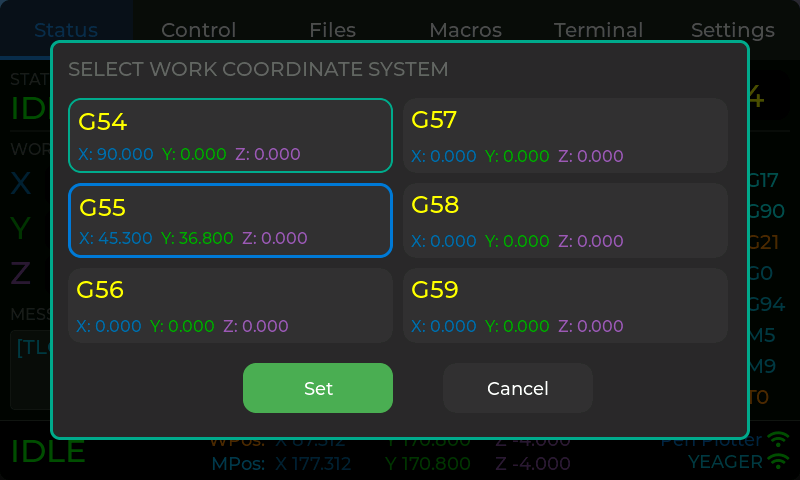
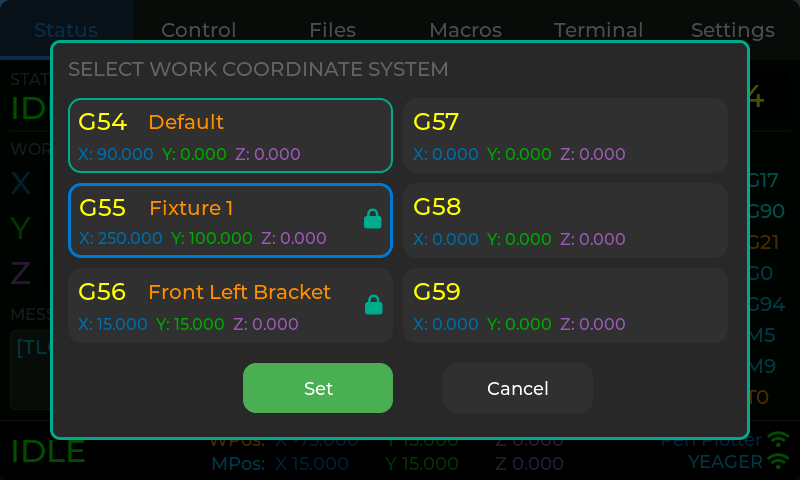
Prepare v1.0.3 release documentation

diff --git a/web/index.html b/web/index.html
@@ -805,7 +805,7 @@
             Web Installer
         </p>
         <div class="version-badge">
-            <span>Version 1.0.2</span>
+            <span>Version 1.0.3</span>
         </div>
         <p style="text-align: center; font-size: 1.2em; color: #c9d1d9; margin-bottom: 30px;">
             ESP32 Touchscreen CNC Controller for FluidNC
@@ -813,25 +813,18 @@
 
         <!-- Changelog -->
         <div class="changelog">
-            <h3>🎉 Version 1.0.2 - Display Rotation & Status Tab Enhancements</h3>
+            <h3>🎉 Version 1.0.3</h3>
             <div class="changelog-content">
                 <div class="changelog-version">
-                    <div class="changelog-date">January 24, 2026</div>
+                    <div class="changelog-date">February 10, 2026</div>
                     <ul class="changelog-items">
-                        <li><strong>Status Tab Updates:</strong>
-                            <ul>
-                                <li><strong>Pause/Resume and Stop Buttons</strong> - Pause/Resume/Stop from status tab</li>
-                                <li><strong>Position Update on Status Tab</strong> - Click positions on status tab to update</li>
-                                <li><strong>WCS Update on Status Tab</strong> - Click work position values to update Work Coordinate System</li>
-                            </ul>
-                        </li>
-                        <li><strong>Settings Updates:</strong>
-                            <ul>
-                                <li><strong>Display Rotation Support</strong> - Can now rotate display 180 degrees via Settings → General</li>
-                            </ul>
-                        </li>
-                        <li><strong>Web Installer Version Selection</strong> - Dropdown to select from multiple firmware versions including preview builds</li>
-                        <li><strong>Bugfix:</strong> Fixed handling of filenames containing spaces in upload operations</li>
+                        <li><strong>Display Flicker Fix:</strong> Eliminated screen flicker by migrating to ESP-IDF 5.3 and optimizing display timing</li>
+                        <li><strong>Basic Hardware Touch Fix:</strong> Improved touch sensitivity and reliability on Basic hardware variant</li>
+                        <li><strong>WCS Enhancements:</strong> Added support for WCS labels and locking specific WCSs requiring confirmation before zeroing or probing</li>
+                        <li><strong>Advance Hardware v1.2 Support (⚠ Untested):</strong> Added support for Elecrow CrowPanel 7" Advance v1.2 displays</li>
+                        <li><strong>mDNS Hostname Resolution:</strong> Connect to FluidNC by hostname (e.g., fluidnc.local) instead of IP address</li>
+                        <li><strong>Upload Directory Auto-Creation:</strong> Automatically creates upload directory if it doesn't exist when uploading files</li>
+                        <li><strong>Open Upload Folder Button:</strong> Quick access button to open the uploaded files folder on FluidNC</li>
                     </ul>
                 </div>
             </div>
@@ -840,6 +833,26 @@
             <div class="changelog-collapsed" id="changelog-prior" style="margin-top: 15px; padding-top: 15px; border-top: 1px solid rgba(0, 188, 212, 0.2);">
                 <h3 onclick="toggleChangelog('changelog-prior')">📜 Prior Releases</h3>
                 <div class="changelog-content">
+                    <div class="changelog-version">
+                        <h4>Version 1.0.2 - Display Rotation & Status Tab Enhancements</h4>
+                        <div class="changelog-date">January 24, 2026</div>
+                        <ul class="changelog-items">
+                            <li><strong>Status Tab Updates:</strong>
+                                <ul>
+                                    <li><strong>Pause/Resume and Stop Buttons</strong> - Pause/Resume/Stop from status tab</li>
+                                    <li><strong>Position Update on Status Tab</strong> - Click positions on status tab to update</li>
+                                    <li><strong>WCS Update on Status Tab</strong> - Click work position values to update Work Coordinate System</li>
+                                </ul>
+                            </li>
+                            <li><strong>Settings Updates:</strong>
+                                <ul>
+                                    <li><strong>Display Rotation Support</strong> - Can now rotate display 180 degrees via Settings → General</li>
+                                </ul>
+                            </li>
+                            <li><strong>Web Installer Version Selection</strong> - Dropdown to select from multiple firmware versions including preview builds</li>
+                            <li><strong>Bugfix:</strong> Fixed handling of filenames containing spaces in upload operations</li>
+                        </ul>
+                    </div>
                     <div class="changelog-version">
                         <h4>Version 1.0.1 - Bugfixes & Documentation</h4>
                         <div class="changelog-date">December 4, 2025</div>
@@ -898,6 +911,7 @@
                         <div><span class="spec-highlight">16MB</span> Flash Memory</div>
                         <div><span class="spec-highlight">8MB</span> PSRAM</div>
                         <div>ESP32-S3-WROOM-1-N16R8</div>
+                        <div style="color: #ffa726; font-weight: 600;">⚠ ESP32-S3 ONLY (P4 not supported)</div>
                         <div>Display: 800×480 <span class="spec-highlight">IPS LCD</span></div>
                         <div id="advance-version-selector" style="margin-top: 12px; padding-top: 12px; border-top: 1px solid rgba(255,255,255,0.1); display: none;">
                             <label for="advance-version-select" style="display: block; margin-bottom: 6px; color: #00bcd4; font-weight: 600; font-size: 0.9em;">Hardware Revision</label>
@@ -923,6 +937,7 @@
                 <li><strong>Browser:</strong> Chrome, Edge, or Opera (required for Web Serial API)</li>
                 <li><strong>Cable:</strong> USB-C cable with data support (not charge-only)</li>
                 <li><strong>Permissions:</strong> Allow serial port access when prompted</li>
+                <li><strong>Hardware:</strong> ESP32-S3 boards only - ESP32-P4 versions are NOT supported</li>
                 <li><strong>Important:</strong> Installing wrong hardware firmware will result in non-functional display</li>
             </ul>
         </div>

diff --git a/docs/development.md b/docs/development.md
@@ -34,9 +34,11 @@
     - I2C backlight control
     - Internal battery connector with JST PH 2.0mm 2-pin connector
     - Optional acrylic case includes space for battery (e.g., 1200mAh lithium polymer battery)
-    - ⚠ **Advance Version Compatibility:** Currently only supports hardware Version 1.3
-    - **Version 1.3 Configuration:** DIP switches S0 and S1 must both be set to position 1
-    - If you have an earlier version (1.0, 1.1, 1.2), please [create a GitHub issue](https://github.com/jeyeager65/FluidTouch/issues) for assistance
+    - ⚠ **ESP32-S3 ONLY** - ESP32-P4 versions are NOT supported
+    - ⚠ **Advance Version Compatibility:** Supports hardware Versions 1.2 and 1.3
+    - **DIP Switch Configuration:** Both versions require DIP switches S0 and S1 set to position 1
+    - **Version 1.3:** Fully tested (use `elecrow-crowpanel-7-advance-v13` build environment)
+    - **Version 1.2:** ⚠ Untested (use `elecrow-crowpanel-7-advance-v12` build environment)
 - Serial terminal (PlatformIO includes one)
 - Chrome/Edge browser (for ESP Web Tools testing)
 
@@ -69,21 +71,28 @@ code .
 
 **Build Environments:**
 - `elecrow-crowpanel-7-basic` - Basic hardware (4MB flash, PWM backlight)
-- `elecrow-crowpanel-7-advance` - Advance hardware (16MB flash, I2C backlight)
+- `elecrow-crowpanel-7-advance-v12` - Advance v1.2 hardware (16MB flash, I2C backlight)
+- `elecrow-crowpanel-7-advance-v13` - Advance v1.3 hardware (16MB flash, I2C backlight)
 
 **Windows PowerShell:**
 ```powershell
 # Build only (Basic)
 & "$env:USERPROFILE\.platformio\penv\Scripts\platformio.exe" run -e elecrow-crowpanel-7-basic
 
-# Build only (Advance)
-& "$env:USERPROFILE\.platformio\penv\Scripts\platformio.exe" run -e elecrow-crowpanel-7-advance
+# Build only (Advance v1.2)
+& "$env:USERPROFILE\.platformio\penv\Scripts\platformio.exe" run -e elecrow-crowpanel-7-advance-v12
+
+# Build only (Advance v1.3)
+& "$env:USERPROFILE\.platformio\penv\Scripts\platformio.exe" run -e elecrow-crowpanel-7-advance-v13
 
 # Build and upload (Basic)
 & "$env:USERPROFILE\.platformio\penv\Scripts\platformio.exe" run --target upload -e elecrow-crowpanel-7-basic
 
-# Build and upload (Advance)
-& "$env:USERPROFILE\.platformio\penv\Scripts\platformio.exe" run --target upload -e elecrow-crowpanel-7-advance
+# Build and upload (Advance v1.2)
+& "$env:USERPROFILE\.platformio\penv\Scripts\platformio.exe" run --target upload -e elecrow-crowpanel-7-advance-v12
+
+# Build and upload (Advance v1.3)
+& "$env:USERPROFILE\.platformio\penv\Scripts\platformio.exe" run --target upload -e elecrow-crowpanel-7-advance-v13
 
 # Clean build
 & "$env:USERPROFILE\.platformio\penv\Scripts\platformio.exe" run -t clean
@@ -97,14 +106,20 @@ code .
 # Build only (Basic)
 platformio run -e elecrow-crowpanel-7-basic
 
-# Build only (Advance)
-platformio run -e elecrow-crowpanel-7-advance
+# Build only (Advance v1.2)
+platformio run -e elecrow-crowpanel-7-advance-v12
+
+# Build only (Advance v1.3)
+platformio run -e elecrow-crowpanel-7-advance-v13
 
 # Build and upload (Basic)
 platformio run --target upload -e elecrow-crowpanel-7-basic
 
-# Build and upload (Advance)
-platformio run --target upload -e elecrow-crowpanel-7-advance
+# Build and upload (Advance v1.2)
+platformio run --target upload -e elecrow-crowpanel-7-advance-v12
+
+# Build and upload (Advance v1.3)
+platformio run --target upload -e elecrow-crowpanel-7-advance-v13
 
 # Clean build
 platformio run -t clean
@@ -117,13 +132,15 @@ platformio device monitor -b 115200
 
 **Flash Usage:** 
 - Basic: ~57% (1.86MB of 3.25MB)
-- Advance: ~28% (1.86MB of 6.5MB)
+- Advance v1.2: ~28% (1.86MB of 6.5MB)
+- Advance v1.3: ~28% (1.86MB of 6.5MB)
 
 **RAM Usage:** ~1.0% (82KB of 8.5MB)
 
 **Binary Locations:**
 - Basic Firmware: `.pio/build/elecrow-crowpanel-7-basic/firmware.bin`
-- Advance Firmware: `.pio/build/elecrow-crowpanel-7-advance/firmware.bin`
+- Advance v1.2 Firmware: `.pio/build/elecrow-crowpanel-7-advance-v12/firmware.bin`
+- Advance v1.3 Firmware: `.pio/build/elecrow-crowpanel-7-advance-v13/firmware.bin`
 
 ---
 

diff --git a/CHANGELOG.md b/CHANGELOG.md
@@ -5,6 +5,24 @@ All notable changes to FluidTouch will be documented in this file.
 The format is based on [Keep a Changelog](https://keepachangelog.com/en/1.0.0/),
 and this project adheres to [Semantic Versioning](https://semver.org/spec/v2.0.0.html).
 
+## [1.0.3] - 2026-02-10
+
+### Added
+
+- **Advance Hardware v1.2 Support** - Added support for Elecrow CrowPanel 7" Advance v1.2 displays (⚠ untested) (#11)
+  - Note: v1.2 requires same DIP switch configuration as v1.3 (S0 and S1 both set to position 1)
+- **mDNS Hostname Resolution** - Connect to FluidNC by hostname (e.g., `fluidnc.local`) instead of IP address (#26)
+- **Upload Directory Auto-Creation** - Automatically creates upload directory if it doesn't exist when uploading files from Display SD
+- **Open Upload Folder Button** - Quick access button to open the uploaded files folder on FluidNC
+- **WCS Display Enhancements** - Improved Work Coordinate System labeling and lock status indicators
+
+### Fixed
+
+- **Display Flicker** - Eliminated screen flicker by migrating to ESP-IDF 5.3 and optimizing display timing parameters
+- **Basic Hardware Touch Response** - Improved touch sensitivity and reliability on Basic hardware variant (#21, #23)
+- **Probe After WCS Confirmation** - Fixed probe operations failing after confirming Work Coordinate System updates
+- **Web Installer Caching** - Prevented browser caching of versions.json to ensure latest version list is always displayed
+
 ## [1.0.2] - 2026-01-24
 
 ### Changed
@@ -65,6 +83,7 @@ FluidTouch 1.0.0 is the first stable release of the ESP32-S3 touchscreen CNC con
 - Configuration guide for WiFi, machines, and settings
 - Development guide for building from source
 
+[1.0.3]: https://github.com/jeyeager65/FluidTouch/releases/tag/v1.0.3
 [1.0.2]: https://github.com/jeyeager65/FluidTouch/releases/tag/v1.0.2
 [1.0.1]: https://github.com/jeyeager65/FluidTouch/releases/tag/v1.0.1
 [1.0.0]: https://github.com/jeyeager65/FluidTouch/releases/tag/v1.0.0

diff --git a/README.md b/README.md
@@ -66,8 +66,11 @@ Refer to the **[Development Guide](./docs/development.md)** for additional instr
 - I2C Backlight Control (STC8H1K28)
 - Internal battery connector (JST PH 2.0mm 2-pin)
 - Optional acrylic case with battery compartment (supports ~1200mAh LiPo batteries)
-- ⚠ **Hardware Version 1.3 Only** 
-  - DIP switches S0 and S1 must both be set to position 1
+- ⚠ **ESP32-S3 ONLY** - ESP32-P4 versions are NOT supported
+- **Hardware Versions 1.2 and 1.3 Supported**
+  - **Both versions:** DIP switches S0 and S1 must both be set to position 1
+  - **Version 1.2:** ⚠ Support is untested - use v1.2 firmware from web installer
+  - **Version 1.3:** Fully tested and recommended
   - **Case Note:** When using acrylic case, install 6mm M3 screws in bottom mounting inserts to prevent accidental reset button presses
 - [Buy on Elecrow ↗](https://www.awin1.com/cread.php?awinmid=82721&awinaffid=2663106&ued=https%3A%2F%2Fwww.elecrow.com%2Fcrowpanel-advance-7-0-hmi-esp32-ai-display-800x480-artificial-intelligent-ips-touch-screen-support-meshtastic-and-arduino-lvgl-micropython.html) *(affiliate link)*
 
@@ -94,7 +97,9 @@ Detailed documentation is available in the [`docs/`](./docs/) folder:
    - WiFi SSID and Password (machine-specific)
    - FluidNC IP address or hostname (e.g. 192.168.0.1 or fluidnc.local)
    - WebSocket port (default: 81)
-     - Port 82 is used by WebUI v3 and can also be used.  FluidNC only allows one connection at a time but it will switch cleanly back and forth.
+     - Port 80 is used by FluidNC v4.0+
+     - Port 81 is used by WebUI v2 (FluidNC v3.x)
+     - Port 82 is used by WebUI v3 (FluidNC v3.x) - only allows one connection at a time but will switch cleanly between connections
 4. Click the "Save" button.
 5. Click the "Done" button.
 6. Click on the created machine.

diff --git a/.github/copilot-instructions.md b/.github/copilot-instructions.md
@@ -142,7 +142,10 @@ The codebase follows a **strict modular pattern** with clear separation:
    ```
 
 2. **FluidNC Communication**:
-   - WebSocket client connects to FluidNC using machine configuration (IP/hostname + port, default 81)
+   - WebSocket client connects to FluidNC using machine configuration (IP/hostname + port)
+     - Port 80: FluidNC v4.0+
+     - Port 81: FluidNC v3.x (WebUI v2, default)
+     - Port 82: FluidNC v3.x (WebUI v3)
    - Uses **automatic reporting** (`$Report/Interval=250\n`) - FluidNC pushes updates every 250ms, no polling needed
    - Parses three message types:
      - Status reports (binary frames): `<Idle|MPos:x,y,z|FS:feed,spindle|Ov:feed,rapid,spindle|WCO:x,y,z|SD:percent,filename>`
@@ -501,7 +504,7 @@ All other hardcoded values live in `include/config.h`:
 
 ## External Dependencies
 
-- **FluidNC**: CNC controller firmware (WebSocket connection on port 81/82, automatic reporting enabled)
+- **FluidNC**: CNC controller firmware (WebSocket connection on port 80 for v4.0+, port 81/82 for v3.x, automatic reporting enabled)
 - **LVGL 9.4.0+**: UI library via PlatformIO lib_deps
 - **LovyanGFX 1.2.7+**: Hardware display driver with RGB parallel support
 - **WebSockets 2.5.4+**: WebSocket client library for FluidNC communication

diff --git a/docs/ui-guide.md b/docs/ui-guide.md
@@ -23,6 +23,7 @@
   - [General](#general)
   - [Jog](#jog-settings)
   - [Probe](#probe-settings)
+  - [WCS](#wcs-settings)
   - [Power](#power-settings)
   - [About](#about)
 
@@ -164,7 +165,13 @@ Touching the WCS field in the upper right, will display this screen of the WCS c
 
 ![Status WCS](./images/status-wcs.png)
 
-Selecting the WCS and touching the Set button will active that WCS.
+Selecting the WCS and touching the Set button will activate that WCS.
+
+**WCS Lock Warning:**
+
+![WCS Warning Popup](./images/popup-wcs-warning.png)
+
+If attempting to probe or zero while a locked WCS is active, a warning popup appears requiring confirmation.
 
 ---
 
@@ -451,6 +458,15 @@ Probe operation defaults:
 - Max Distance (mm)
 - Retract Distance (mm)
 - Probe Thickness (mm)
+
+### WCS Settings
+
+![Settings WCS](./images/settings-wcs.png)
+
+Work Coordinate System configuration:
+- **Custom Name:** Provide meaningful name to a WCS
+- **Lock WCS:** Prevent accidental changes to selected work coordinate system
+
 
 ### Power Settings
 

diff --git a/docs/usage.md b/docs/usage.md
@@ -38,6 +38,9 @@ Connect the display to power via USB-C or external power supply. The device will
    - **Name:** Friendly name (e.g., "CNC Router", "Laser")
    - **Hostname/IP:** FluidNC IP address (e.g., `192.168.1.100`)
    - **Port:** WebSocket port (default: `81`)
+     - Port 80 for FluidNC v4.0+
+     - Port 81 for FluidNC v3.x (WebUI v2)
+     - Port 82 for FluidNC v3.x (WebUI v3)
 4. Tap **Save**
 5. Select the machine to connect
 
@@ -273,7 +276,7 @@ Status tab displays:
 **Check:**
 - FluidNC is powered on and responsive
 - IP address/hostname is correct
-- Port is correct (default: 81)
+- Port is correct (80 for v4.0+, 81 for v3.x default)
 - Both devices on same WiFi network
 - WiFi password is configured (check machine settings)
 

diff --git a/docs/configuration.md b/docs/configuration.md
@@ -35,8 +35,9 @@
 
 6. **Port:** WebSocket port number
    - Default: `81`
-   - Port 81 is used by WebUI v2
-   - Port 82 is used by WebUI v3.  Connected to the WebUI will disconnect the pendant (and vice versa).
+   - Port 80 is used by FluidNC v4.0+
+   - Port 81 is used by WebUI v2 (FluidNC v3.x)
+   - Port 82 is used by WebUI v3 (FluidNC v3.x) - only allows one connection at a time but will switch cleanly between connections
 
 ### Editing a Machine
 
